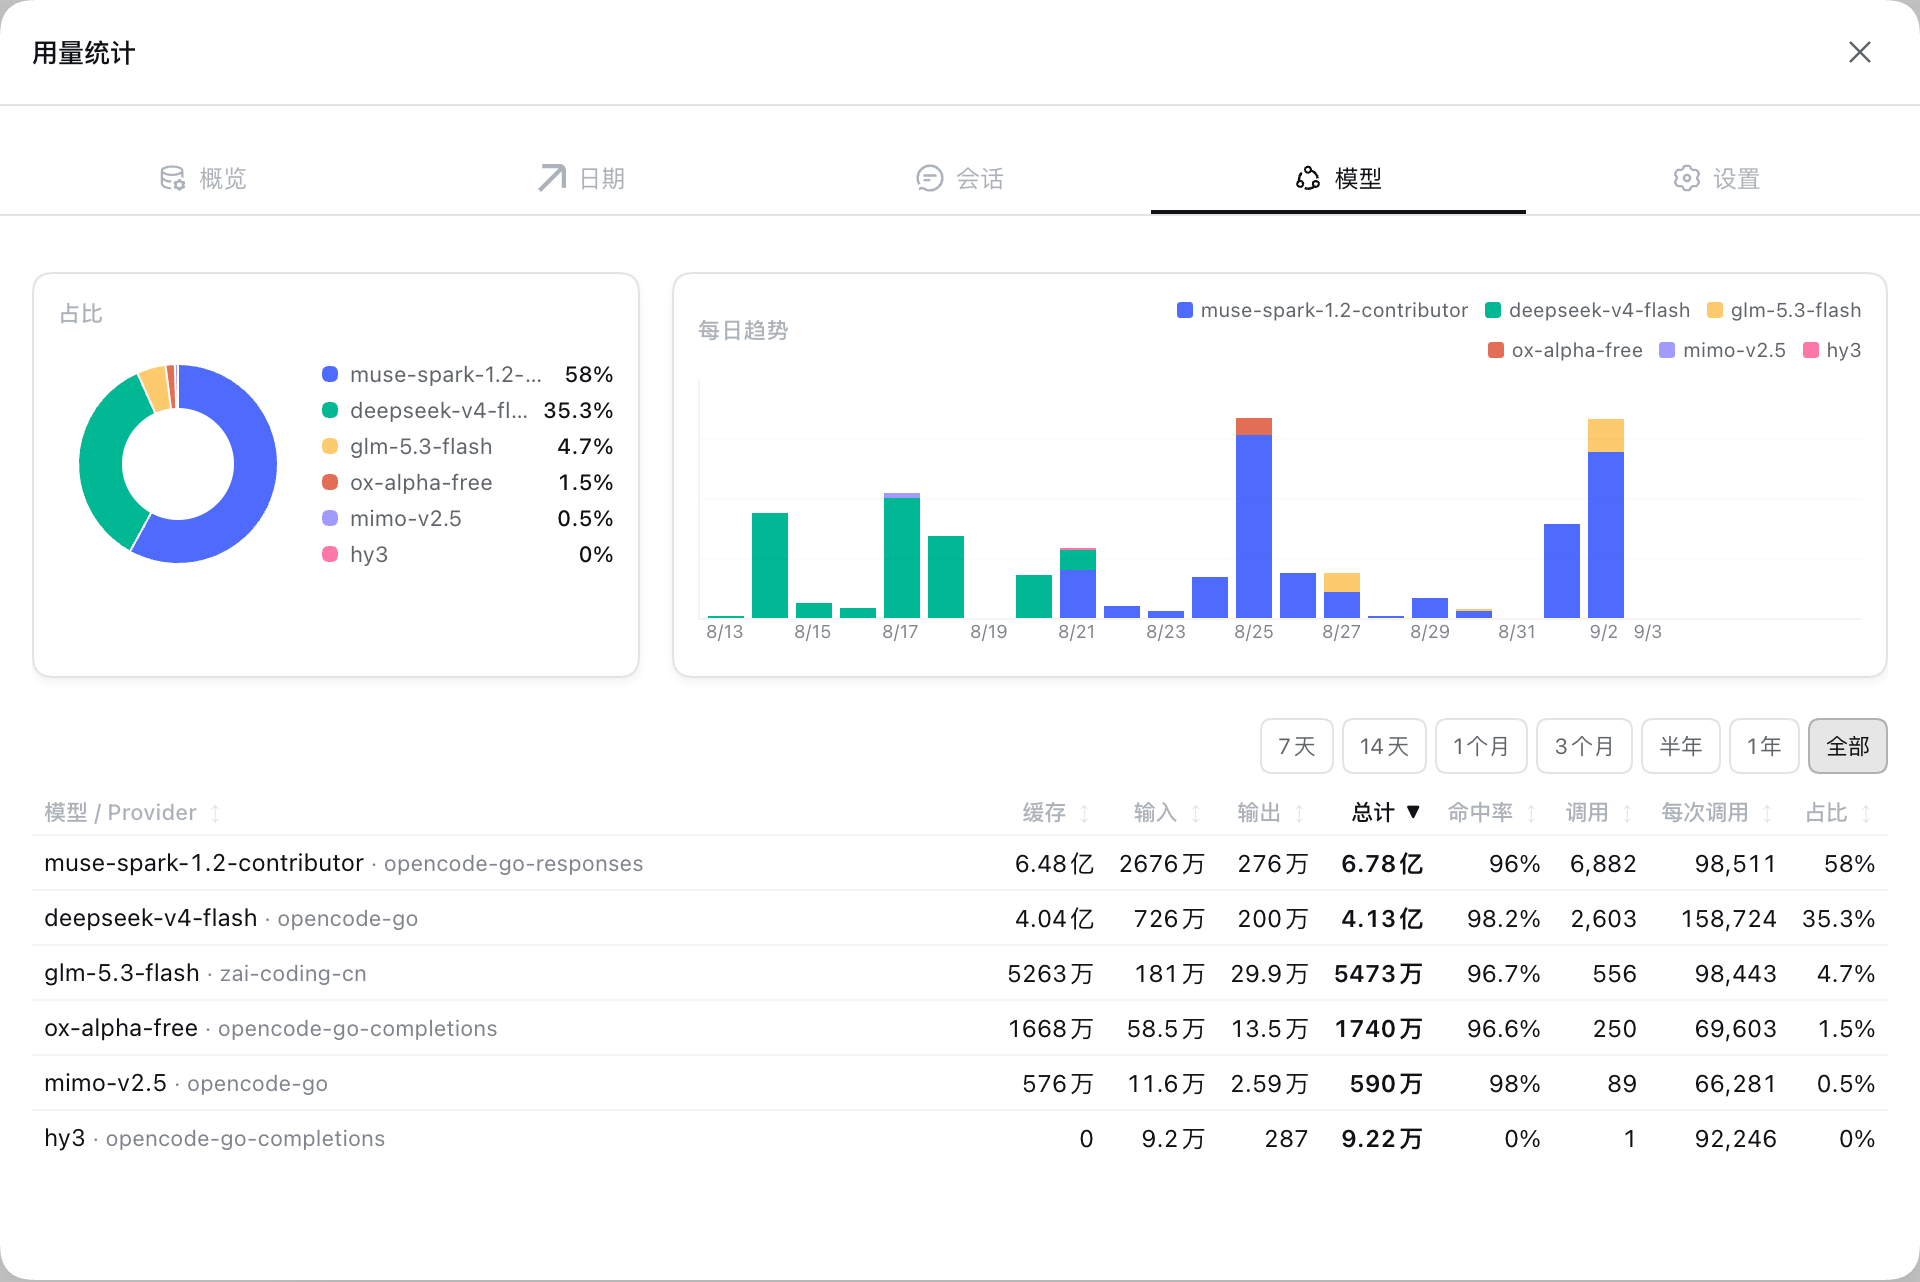
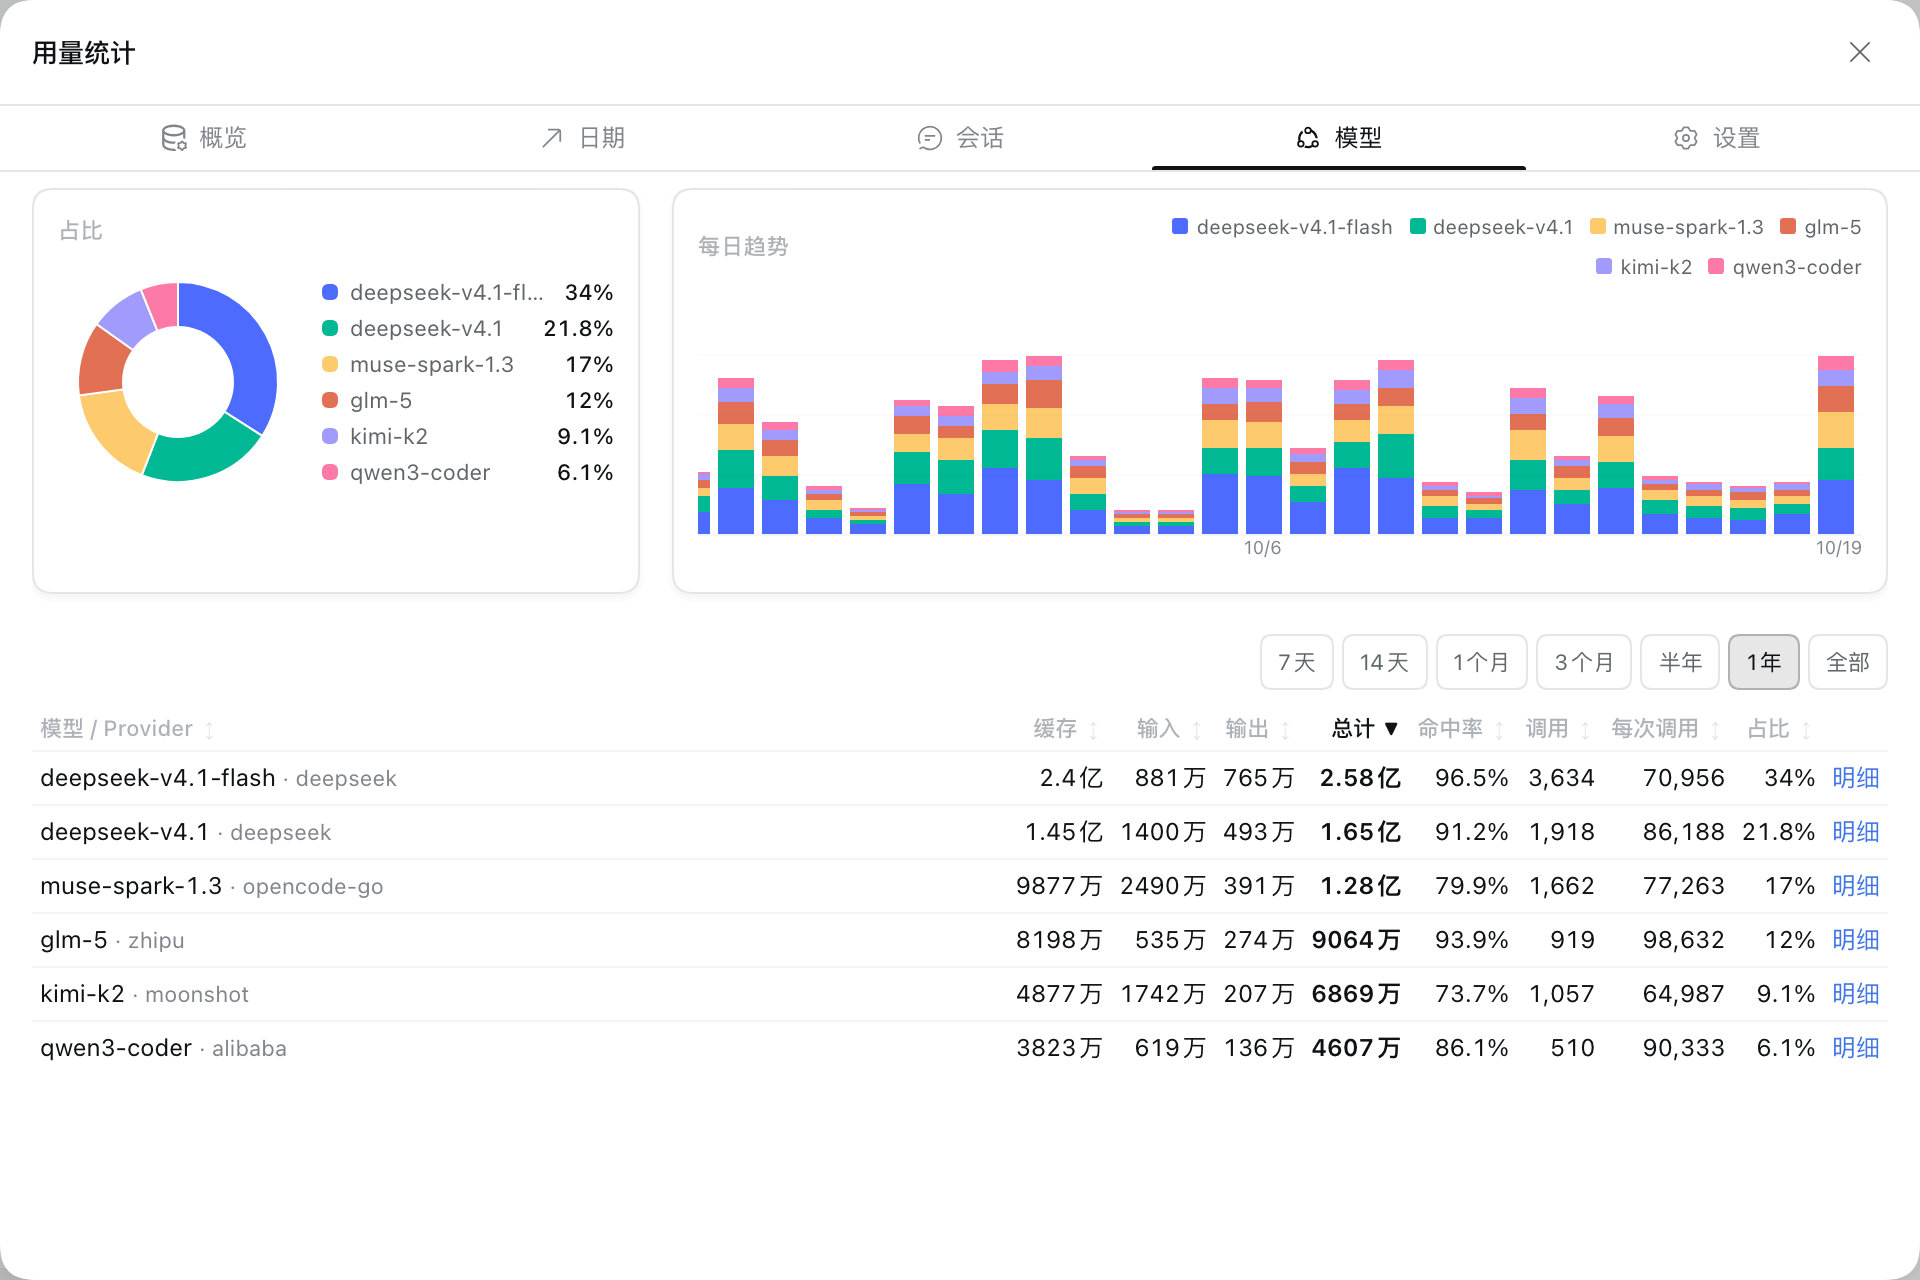
docs: 界面截图改用演示数据重拍
- 6 张界面截图统一用演示数据重拍，没数据时也能看出各页完整样子。
- STRUCTURE 补上已存在的 v0.5.0 发布说明与安装向导截图条目。

diff --git a/docs/STRUCTURE.md b/docs/STRUCTURE.md
@@ -44,14 +44,16 @@ dsh-usage-stats/
 │   │   ├── v0.4.4.md
 │   │   ├── v0.4.5.md
 │   │   ├── v0.4.6.md
-│   │   └── v0.4.7.md
+│   │   ├── v0.4.7.md
+│   │   └── v0.5.0.md
 │   ├── screenshot/
 │   │   ├── 01-overview.png
 │   │   ├── 02-dates.png
 │   │   ├── 03-sessions.png
 │   │   ├── 04-models.png
 │   │   ├── 05-settings.png
-│   │   └── footer.png
+│   │   ├── footer.png
+│   │   └── install-help.png
 │   ├── API.md ← Remote 协议与偏好设置约定（随接口演进维护）
 │   ├── ARCHITECTURE.md ← 架构与统计口径唯一权威（账本/数据流/折叠/墓碑/口径；AGENTS.md 只留规则与指针）
 │   ├── STRUCTURE.md ← 生成文件：由 `pnpm tree` 重新生成，勿手改

diff --git a/CHANGELOG.md b/CHANGELOG.md
@@ -10,6 +10,11 @@
 
 - **额度监控改成一张表**：三份额度并成一张表，开关与抓取间隔一眼对齐，一屏看全，改设置不用再来回翻；关掉某项监控时，同一行里联动的两项设置直接变灰
 
+### 清理
+
+- 文档整理：README 去掉统计口径与设置项赘述、补一张「添加插件」向导截图，安装步骤改为向导与 dsh CLI 两条路径（无功能变化）
+- README 的 6 张界面截图改用演示数据重拍，没数据时也能看出各页完整样子（无功能变化）
+
 ## [0.5.0] - 2026-10-13
 
 ### 功能
